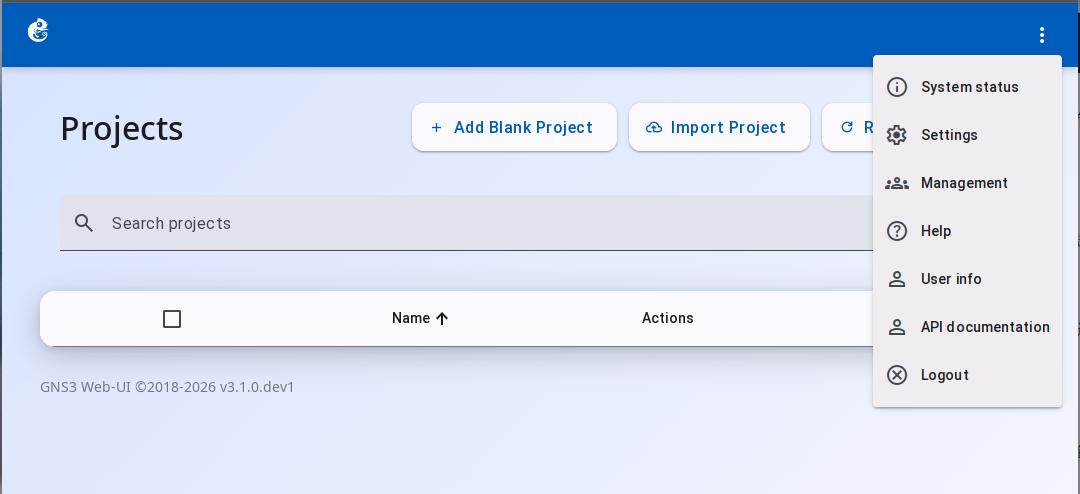
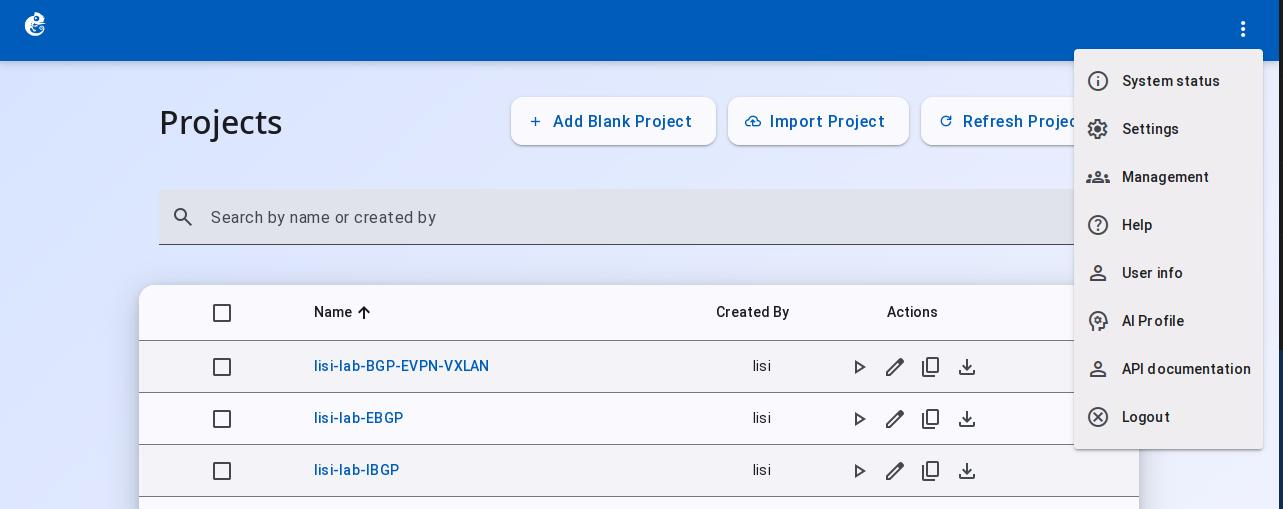
docs: update more menu screenshot and add AI Profile item
Replace the more-menu screenshot with a new one that includes the
AI Profile option for configuring GNS3 AI Assistant models.

diff --git a/docs-3.1-en/web-ui/intro.md b/docs-3.1-en/web-ui/intro.md
@@ -18,6 +18,7 @@ GNS3 Web UI is a browser-based network simulation management interface. After yo
 <img style={{ width: '100%' }} alt="Main menu" src={useBaseUrl('img/web-ui/zh/main-menu.jpeg')} />
 - **Top right corner**: More menu (three dots). Click it to open a menu with these items:
   - `System Status`
+  - `AI Profile`
   - `Settings`
   - `Management`
   - `Help`